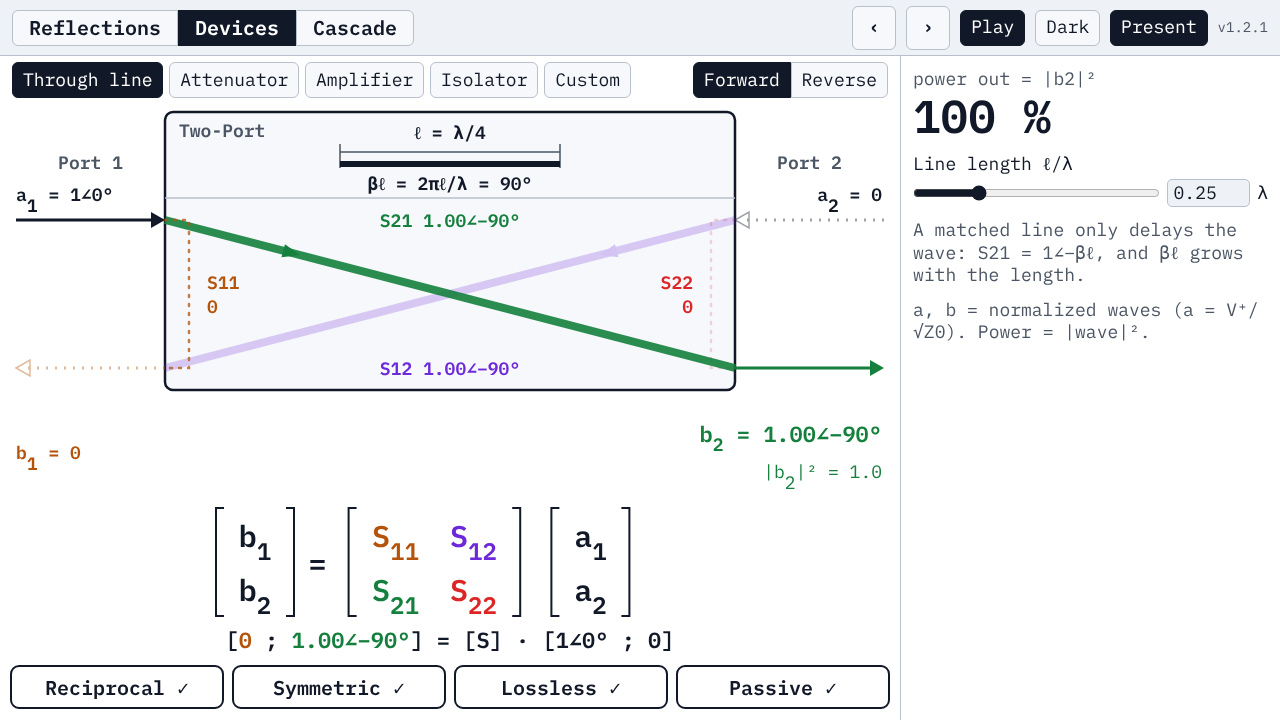
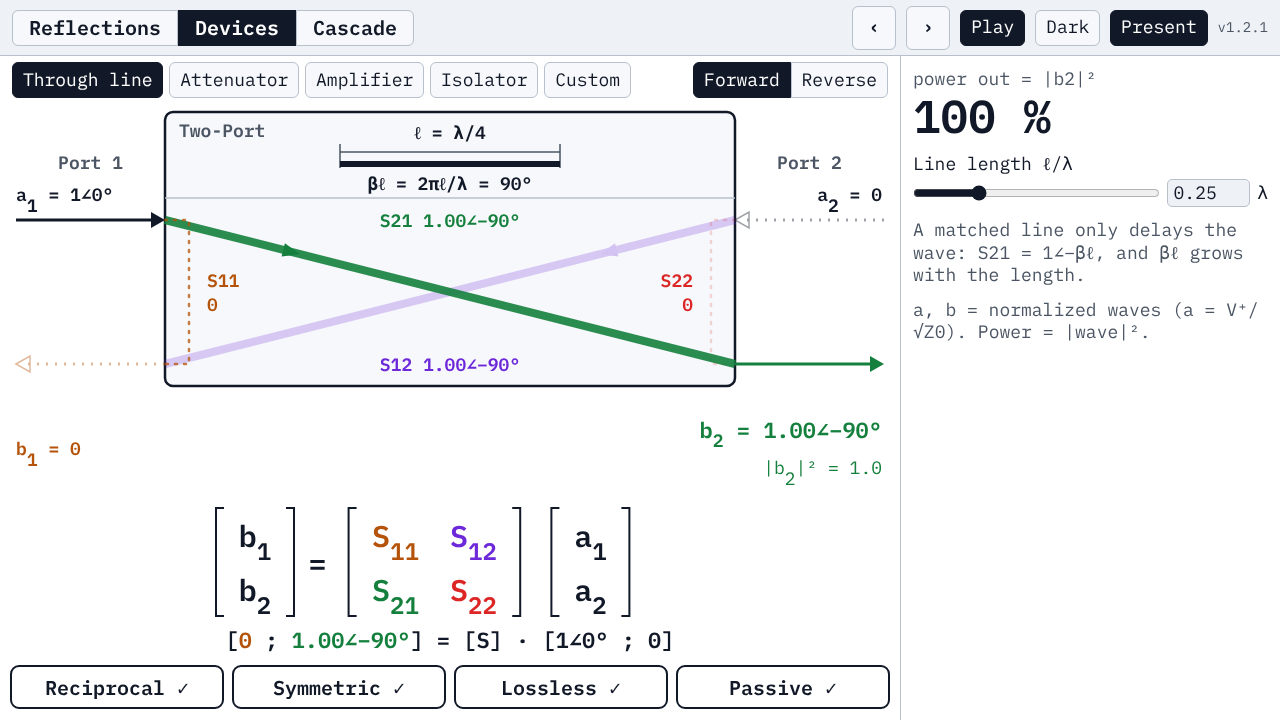
RF Cascade Analyzer v1.2.1: clear the |b|² line from the matrix; fix a shadowed name
The gap test now counts the new |b|² line as part of the b label. It
was 14 px above the matrix (16 required), so the label row gets 4 more
units. Rename the header-height variable in drawTwoPort, which shadowed
the label's own name (ESLint no-shadow).

Claude-Session: https://claude.ai/code/session_01K91XZ2Ca3dbV4NeCriL9c8

diff --git a/ece-4123/RF_Cascade_Analyzer_v1.2.1.html b/ece-4123/RF_Cascade_Analyzer_v1.2.1.html
@@ -761,7 +761,7 @@ const MAG_MAX = 2;               // Custom |S| slider range
    names holds: badges 12 above the bottom, numeric line 12 above the badges, the matrix above it, wave labels 16 above
    the matrix and 24 below the box. The box is what is left above. edge: wave labels keep 16 from the drawing's sides. */
 const LY_D = { bx: 165, bw: 570, top: 8, head: 86, inset: 22, loop: 24, edge: 16, badgeH: 42, gapEdge: 12, numH: 30, gapNum: 12,
-               matHalf: 54, gapMat: 8, labH: 76, gapLab: 18, gapBox: 24, aUp: 26, portUp: 58 };
+               matHalf: 54, gapMat: 8, labH: 76, gapLab: 22, gapBox: 24, aUp: 26, portUp: 58 };
 // Vertical positions for a drawing H units tall: badge, numeric line and matrix centres, wave-label row, box bottom.
 function geoD(H){
   const L = LY_D, badge = H - L.gapEdge - L.badgeH / 2, num = badge - L.badgeH / 2 - L.gapNum - L.numH / 2;
@@ -857,9 +857,9 @@ function headerGlyph(kind, p, cx, y0){
    normalized waves a1, b1, a2, b2 at the ports (values for the current drive) and the four S paths. */
 function drawTwoPort(H, kind, p){
   const S = deviceS(kind, p), w = deviceWaves(S), on = DRIVE_PATHS[D.drive], bx = LY_D.bx, bw = LY_D.bw, by = LY_D.top, cx = bx + bw / 2;
-  const G = geoD(H), bb = G.bb, head = headOf(kind), yA = by + head + LY_D.inset, yB = bb - LY_D.inset, mid = (yA + yB) / 2, xl = bx + LY_D.loop, xr = bx + bw - LY_D.loop;
+  const G = geoD(H), bb = G.bb, hd = headOf(kind), yA = by + hd + LY_D.inset, yB = bb - LY_D.inset, mid = (yA + yB) / 2, xl = bx + LY_D.loop, xr = bx + bw - LY_D.loop;
   let s = el('rect', { x: bx, y: by, width: bw, height: bb - by, fill: 'var(--panel)', stroke: 'var(--txt)', 'stroke-width': 2.5, rx: 8, class: 'box' });
-  s += el('line', { x1: bx, y1: by + head, x2: bx + bw, y2: by + head, stroke: 'var(--line)', 'stroke-width': 1.5, class: 'headline' });
+  s += el('line', { x1: bx, y1: by + hd, x2: bx + bw, y2: by + hd, stroke: 'var(--line)', 'stroke-width': 1.5, class: 'headline' });
   s += txt(bx + 14, by + 18, 'Two-Port', { fill: 'var(--mut)', cls: 'boxTitle' });
   s += headerGlyph(kind, p, cx, by);
   // paths: [key, d, chevron point, chevron angle]

diff --git a/ece-4123/RF_Cascade_Analyzer_src/devices.js b/ece-4123/RF_Cascade_Analyzer_src/devices.js
@@ -25,7 +25,7 @@ const MAG_MAX = 2;               // Custom |S| slider range
    names holds: badges 12 above the bottom, numeric line 12 above the badges, the matrix above it, wave labels 16 above
    the matrix and 24 below the box. The box is what is left above. edge: wave labels keep 16 from the drawing's sides. */
 const LY_D = { bx: 165, bw: 570, top: 8, head: 86, inset: 22, loop: 24, edge: 16, badgeH: 42, gapEdge: 12, numH: 30, gapNum: 12,
-               matHalf: 54, gapMat: 8, labH: 76, gapLab: 18, gapBox: 24, aUp: 26, portUp: 58 };
+               matHalf: 54, gapMat: 8, labH: 76, gapLab: 22, gapBox: 24, aUp: 26, portUp: 58 };
 // Vertical positions for a drawing H units tall: badge, numeric line and matrix centres, wave-label row, box bottom.
 function geoD(H){
   const L = LY_D, badge = H - L.gapEdge - L.badgeH / 2, num = badge - L.badgeH / 2 - L.gapNum - L.numH / 2;
@@ -121,9 +121,9 @@ function headerGlyph(kind, p, cx, y0){
    normalized waves a1, b1, a2, b2 at the ports (values for the current drive) and the four S paths. */
 function drawTwoPort(H, kind, p){
   const S = deviceS(kind, p), w = deviceWaves(S), on = DRIVE_PATHS[D.drive], bx = LY_D.bx, bw = LY_D.bw, by = LY_D.top, cx = bx + bw / 2;
-  const G = geoD(H), bb = G.bb, head = headOf(kind), yA = by + head + LY_D.inset, yB = bb - LY_D.inset, mid = (yA + yB) / 2, xl = bx + LY_D.loop, xr = bx + bw - LY_D.loop;
+  const G = geoD(H), bb = G.bb, hd = headOf(kind), yA = by + hd + LY_D.inset, yB = bb - LY_D.inset, mid = (yA + yB) / 2, xl = bx + LY_D.loop, xr = bx + bw - LY_D.loop;
   let s = el('rect', { x: bx, y: by, width: bw, height: bb - by, fill: 'var(--panel)', stroke: 'var(--txt)', 'stroke-width': 2.5, rx: 8, class: 'box' });
-  s += el('line', { x1: bx, y1: by + head, x2: bx + bw, y2: by + head, stroke: 'var(--line)', 'stroke-width': 1.5, class: 'headline' });
+  s += el('line', { x1: bx, y1: by + hd, x2: bx + bw, y2: by + hd, stroke: 'var(--line)', 'stroke-width': 1.5, class: 'headline' });
   s += txt(bx + 14, by + 18, 'Two-Port', { fill: 'var(--mut)', cls: 'boxTitle' });
   s += headerGlyph(kind, p, cx, by);
   // paths: [key, d, chevron point, chevron angle]

diff --git a/ece-4123/RF_Cascade_Analyzer_src/tests/browser.test.js b/ece-4123/RF_Cascade_Analyzer_src/tests/browser.test.js
@@ -111,7 +111,7 @@ const plusIssues = page => page.evaluate(() => {
 // badges → bottom of the screen ≥ 12; every a/b label ≥ 16 from the drawing's left edge and from the drawing/panel divider.
 const devGapIssues = page => page.evaluate(() => {
   const bad = [], R = e => e.getBoundingClientRect(), svg = R(document.querySelector('#stage svg')), box = R(document.querySelector('#stage .box'));
-  const labs = ['wa1', 'wa2', 'wb1', 'wb2'].map(id => [id, R(document.getElementById(id))]), b = labs.filter(([id]) => id[1] === 'b').map(([, r]) => r);
+  const labs = ['wa1', 'wa2', 'wb1', 'wb2', 'pb1', 'pb2'].filter(id => document.getElementById(id)).map(id => [id, R(document.getElementById(id))]), b = labs.filter(([id]) => id[1] === 'b').map(([, r]) => r);   // pb: the |b|² line
   const mat = R(document.querySelector('#stage .matrix')), num = R(document.getElementById('numLine')), badges = [...document.querySelectorAll('#stage .badge')].map(R);
   const g = (name, v, min) => { if(v < min - 0.05) bad.push(name + ' ' + v.toFixed(1) + ' < ' + min); };
   b.forEach(r => g('box→b label', r.top - box.bottom, 24)); b.forEach(r => g('b label→matrix', mat.top - r.bottom, 16));
